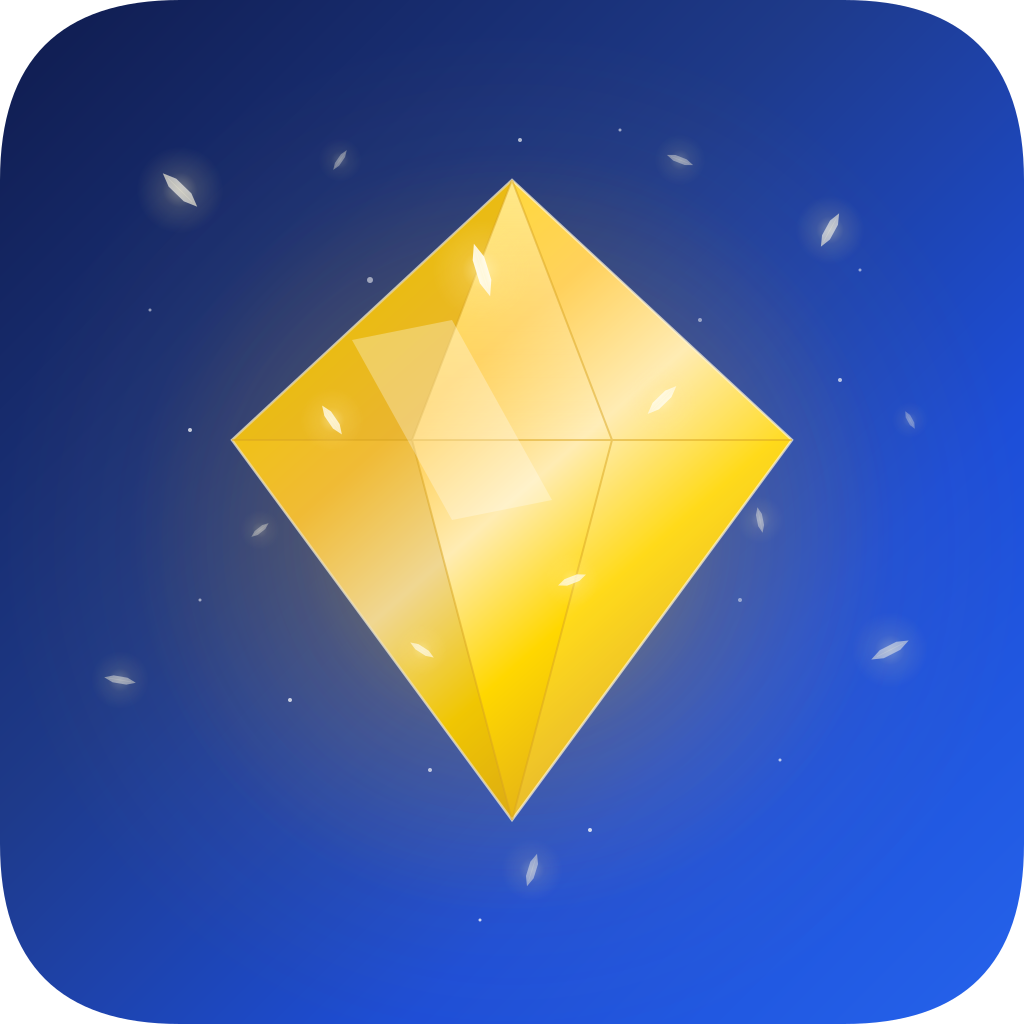
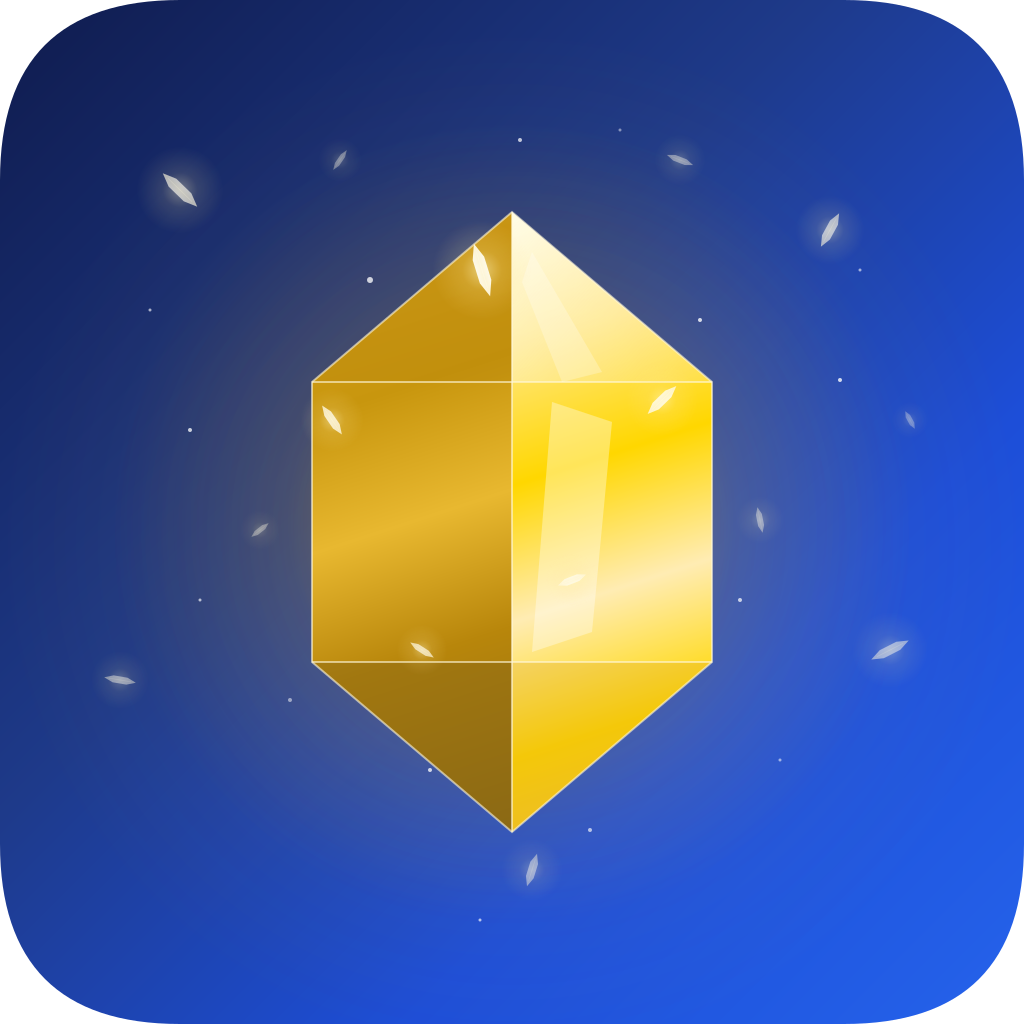
Change gem shape to double-terminated crystal prism (闪灵水晶)
Main gem is now a hexagonal prism with pointed tips on both ends,
with left/right faceted faces, specular highlights, and gold gradient.

Changed region(s): [[0.2188, 0.1562, 0.7812, 0.8125]]

diff --git a/scripts/generate-icon.js b/scripts/generate-icon.js
@@ -68,96 +68,157 @@ warmGlow.addColorStop(1, 'rgba(255, 180, 30, 0)');
 ctx.fillStyle = warmGlow;
 ctx.fill();
 
-// === GOLDEN DIAMOND GEM (classic diamond shape) ===
+// === GOLDEN CRYSTAL PRISM GEM (闪灵水晶 double-terminated hexagonal prism) ===
 const cx = SIZE / 2;
-const cy = SIZE / 2;
-const top = [cx, 180];
-const left = [cx - 280, 440];
-const right = [cx + 280, 440];
-const bottom = [cx, 820];
+const cy = SIZE / 2 + 10;
+
+// Crystal dimensions
+const totalH = 620;      // total height tip-to-tip
+const bodyH = 280;        // middle prism body height
+const tipH = 170;         // each tip height
+const bodyW = 200;        // half-width of body
+const midW = bodyW * 0.6; // mid-facet width
+
+// Key Y positions
+const topTip = cy - totalH / 2;
+const topBody = topTip + tipH;
+const botBody = topBody + bodyH;
+const botTip = botBody + tipH;
 
 // Outer glow
-const gemGlow = ctx.createRadialGradient(cx, cy + 20, 50, cx, cy + 20, 380);
-gemGlow.addColorStop(0, 'rgba(255, 215, 0, 0.35)');
+const gemGlow = ctx.createRadialGradient(cx, cy, 50, cx, cy, 400);
+gemGlow.addColorStop(0, 'rgba(255, 215, 0, 0.4)');
 gemGlow.addColorStop(0.5, 'rgba(255, 180, 0, 0.12)');
 gemGlow.addColorStop(1, 'rgba(255, 180, 0, 0)');
 ctx.fillStyle = gemGlow;
 roundRect(ctx, 0, 0, SIZE, SIZE, 180);
 ctx.fill();
 
-// Main diamond body
+// === Draw crystal as 3 visible faces of hexagonal prism ===
+
+// LEFT FACE (darker)
 ctx.beginPath();
-ctx.moveTo(...top);
-ctx.lineTo(...right);
-ctx.lineTo(...bottom);
-ctx.lineTo(...left);
+ctx.moveTo(cx, topTip);                // top tip
+ctx.lineTo(cx - bodyW, topBody);       // top-left shoulder
+ctx.lineTo(cx - bodyW, botBody);       // bottom-left shoulder
+ctx.lineTo(cx, botTip);                // bottom tip
+ctx.lineTo(cx, botBody);               // bottom center
+ctx.lineTo(cx, topBody);               // top center
 ctx.closePath();
-
-const bodyGrad = ctx.createLinearGradient(left[0], top[1], right[0], bottom[1]);
-bodyGrad.addColorStop(0, '#FFF8DC');
-bodyGrad.addColorStop(0.15, '#FFD700');
-bodyGrad.addColorStop(0.35, '#FFC940');
-bodyGrad.addColorStop(0.5, '#FFECB3');
-bodyGrad.addColorStop(0.65, '#FFD700');
-bodyGrad.addColorStop(0.85, '#DAA520');
-bodyGrad.addColorStop(1, '#B8860B');
-ctx.fillStyle = bodyGrad;
+const leftGrad = ctx.createLinearGradient(cx - bodyW, topTip, cx, botTip);
+leftGrad.addColorStop(0, '#DAA520');
+leftGrad.addColorStop(0.3, '#C8960E');
+leftGrad.addColorStop(0.5, '#E8B830');
+leftGrad.addColorStop(0.7, '#B8860B');
+leftGrad.addColorStop(1, '#8B6914');
+ctx.fillStyle = leftGrad;
 ctx.fill();
-ctx.strokeStyle = 'rgba(255, 248, 220, 0.7)';
-ctx.lineWidth = 2.5;
-ctx.stroke();
 
-// Facets
-const crownLeft = [cx - 100, 440];
-const crownRight = [cx + 100, 440];
-
+// RIGHT FACE (brighter, catches light)
 ctx.beginPath();
-ctx.moveTo(...top); ctx.lineTo(...left); ctx.lineTo(...crownLeft); ctx.closePath();
-ctx.fillStyle = 'rgba(184, 134, 11, 0.3)';
+ctx.moveTo(cx, topTip);                // top tip
+ctx.lineTo(cx + bodyW, topBody);       // top-right shoulder
+ctx.lineTo(cx + bodyW, botBody);       // bottom-right shoulder
+ctx.lineTo(cx, botTip);                // bottom tip
+ctx.lineTo(cx, botBody);               // bottom center
+ctx.lineTo(cx, topBody);               // top center
+ctx.closePath();
+const rightGrad = ctx.createLinearGradient(cx, topTip, cx + bodyW, botTip);
+rightGrad.addColorStop(0, '#FFF8DC');
+rightGrad.addColorStop(0.2, '#FFE680');
+rightGrad.addColorStop(0.4, '#FFD700');
+rightGrad.addColorStop(0.6, '#FFECB3');
+rightGrad.addColorStop(0.8, '#FFD700');
+rightGrad.addColorStop(1, '#F0C040');
+ctx.fillStyle = rightGrad;
 ctx.fill();
 
+// TOP TIP — left facet
 ctx.beginPath();
-ctx.moveTo(...top); ctx.lineTo(...right); ctx.lineTo(...crownRight); ctx.closePath();
-ctx.fillStyle = 'rgba(255, 236, 179, 0.25)';
+ctx.moveTo(cx, topTip);
+ctx.lineTo(cx - bodyW, topBody);
+ctx.lineTo(cx, topBody);
+ctx.closePath();
+ctx.fillStyle = 'rgba(184, 134, 11, 0.4)';
 ctx.fill();
 
+// TOP TIP — right facet (bright highlight)
 ctx.beginPath();
-ctx.moveTo(...top); ctx.lineTo(...crownLeft); ctx.lineTo(...crownRight); ctx.closePath();
-const centerGrad = ctx.createLinearGradient(cx, top[1], cx, 440);
-centerGrad.addColorStop(0, 'rgba(255, 255, 255, 0.5)');
-centerGrad.addColorStop(1, 'rgba(255, 248, 220, 0.1)');
-ctx.fillStyle = centerGrad;
+ctx.moveTo(cx, topTip);
+ctx.lineTo(cx + bodyW, topBody);
+ctx.lineTo(cx, topBody);
+ctx.closePath();
+const topRightGrad = ctx.createLinearGradient(cx, topTip, cx + bodyW, topBody);
+topRightGrad.addColorStop(0, 'rgba(255, 255, 240, 0.6)');
+topRightGrad.addColorStop(1, 'rgba(255, 236, 179, 0.2)');
+ctx.fillStyle = topRightGrad;
 ctx.fill();
 
+// BOTTOM TIP — left facet
 ctx.beginPath();
-ctx.moveTo(...left); ctx.lineTo(...crownLeft); ctx.lineTo(...bottom); ctx.closePath();
-ctx.fillStyle = 'rgba(184, 134, 11, 0.2)';
+ctx.moveTo(cx, botTip);
+ctx.lineTo(cx - bodyW, botBody);
+ctx.lineTo(cx, botBody);
+ctx.closePath();
+ctx.fillStyle = 'rgba(139, 105, 20, 0.5)';
 ctx.fill();
 
+// BOTTOM TIP — right facet
 ctx.beginPath();
-ctx.moveTo(...right); ctx.lineTo(...crownRight); ctx.lineTo(...bottom); ctx.closePath();
-ctx.fillStyle = 'rgba(255, 236, 179, 0.15)';
+ctx.moveTo(cx, botTip);
+ctx.lineTo(cx + bodyW, botBody);
+ctx.lineTo(cx, botBody);
+ctx.closePath();
+ctx.fillStyle = 'rgba(218, 165, 32, 0.3)';
 ctx.fill();
 
-// Facet lines
-ctx.strokeStyle = 'rgba(218, 165, 32, 0.5)';
+// Crystal edges
+ctx.strokeStyle = 'rgba(255, 248, 220, 0.6)';
 ctx.lineWidth = 2;
 ctx.beginPath();
-ctx.moveTo(...top); ctx.lineTo(...crownLeft);
-ctx.moveTo(...top); ctx.lineTo(...crownRight);
-ctx.moveTo(...left); ctx.lineTo(...right);
-ctx.moveTo(...crownLeft); ctx.lineTo(...bottom);
-ctx.moveTo(...crownRight); ctx.lineTo(...bottom);
+// Outline
+ctx.moveTo(cx, topTip);
+ctx.lineTo(cx - bodyW, topBody);
+ctx.lineTo(cx - bodyW, botBody);
+ctx.lineTo(cx, botTip);
+ctx.lineTo(cx + bodyW, botBody);
+ctx.lineTo(cx + bodyW, topBody);
+ctx.closePath();
+ctx.stroke();
+// Center ridge line
+ctx.beginPath();
+ctx.moveTo(cx, topTip);
+ctx.lineTo(cx, botTip);
+ctx.stroke();
+// Shoulder lines
+ctx.beginPath();
+ctx.moveTo(cx - bodyW, topBody);
+ctx.lineTo(cx + bodyW, topBody);
+ctx.moveTo(cx - bodyW, botBody);
+ctx.lineTo(cx + bodyW, botBody);
 ctx.stroke();
 
-// Specular highlight
+// Specular highlight streak on right face
 ctx.save();
-ctx.globalAlpha = 0.3;
+ctx.globalAlpha = 0.35;
 ctx.beginPath();
-ctx.moveTo(cx - 160, 340);
-ctx.lineTo(cx - 60, 320);
-ctx.lineTo(cx + 40, 500);
-ctx.lineTo(cx - 60, 520);
+ctx.moveTo(cx + 40, topBody + 20);
+ctx.lineTo(cx + 100, topBody + 40);
+ctx.lineTo(cx + 80, botBody - 30);
+ctx.lineTo(cx + 20, botBody - 10);
+ctx.closePath();
+ctx.fillStyle = '#FFFFFF';
+ctx.fill();
+ctx.restore();
+
+// Small specular on top-right tip
+ctx.save();
+ctx.globalAlpha = 0.25;
+ctx.beginPath();
+ctx.moveTo(cx + 20, topTip + 40);
+ctx.lineTo(cx + 90, topBody - 10);
+ctx.lineTo(cx + 50, topBody);
+ctx.lineTo(cx + 10, topTip + 70);
 ctx.closePath();
 ctx.fillStyle = '#FFFFFF';
 ctx.fill();
